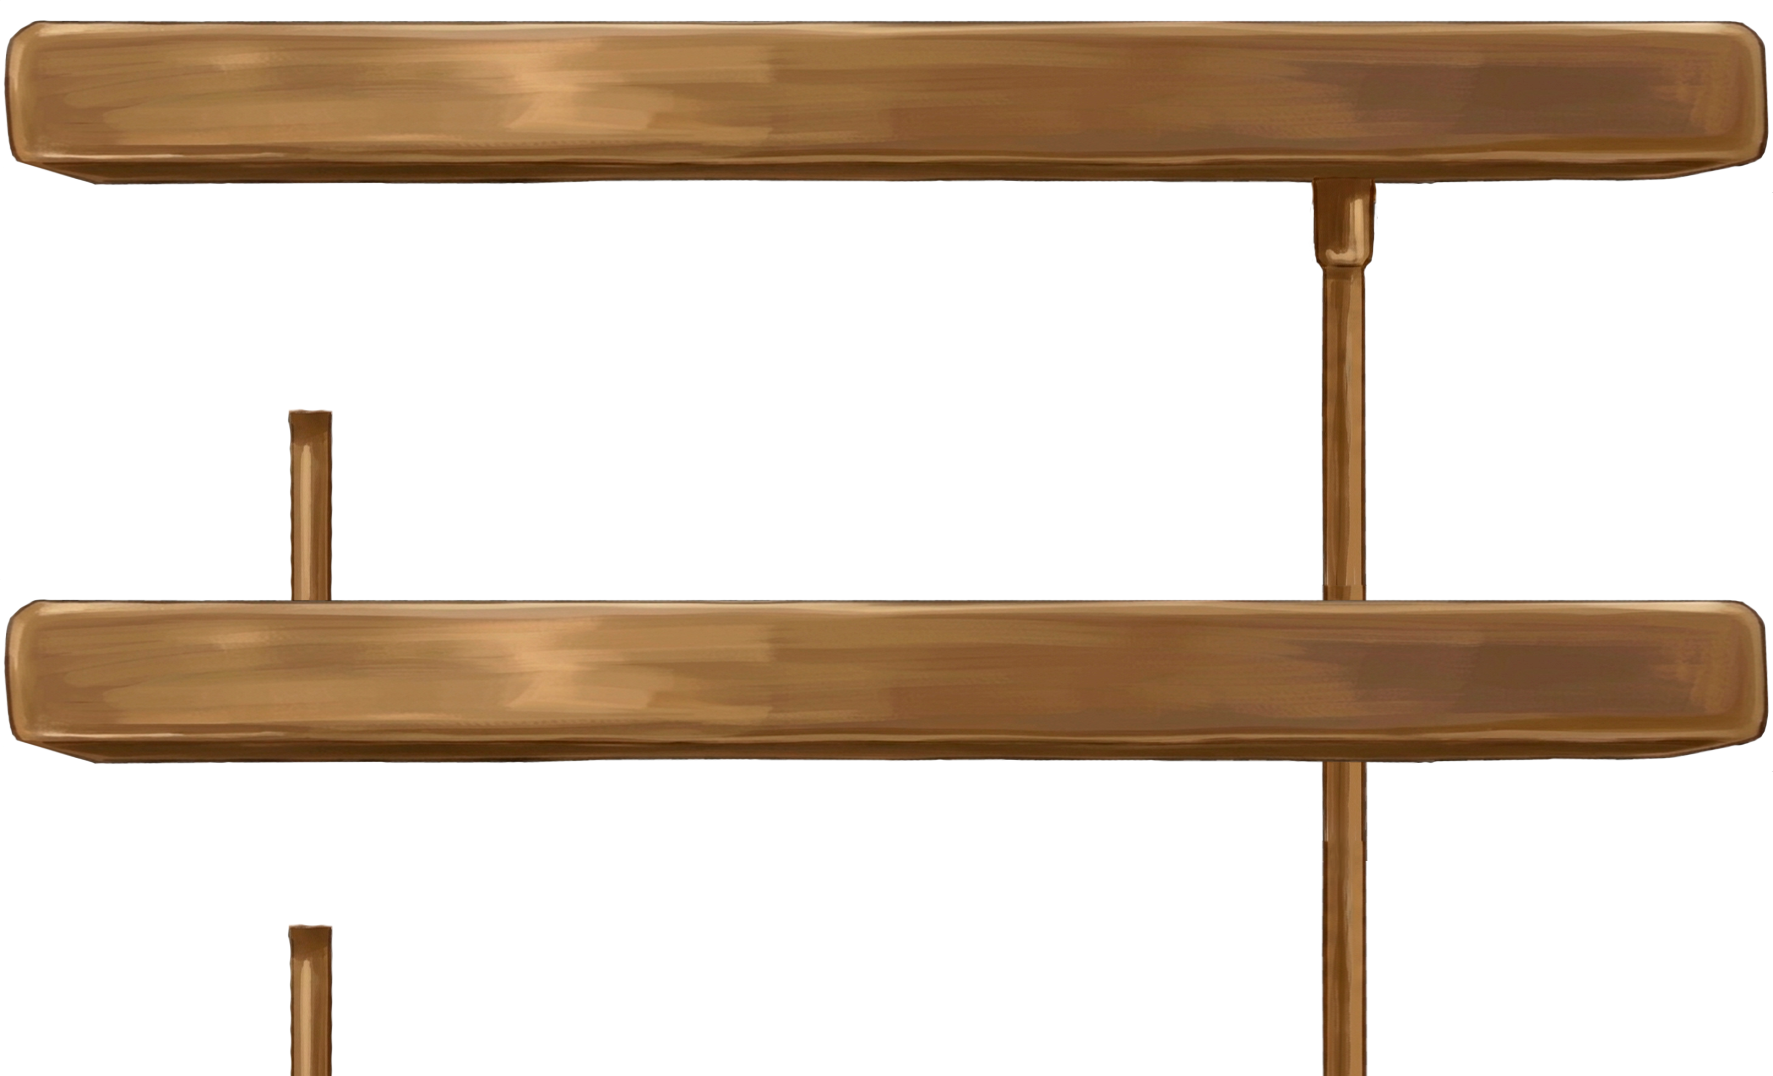
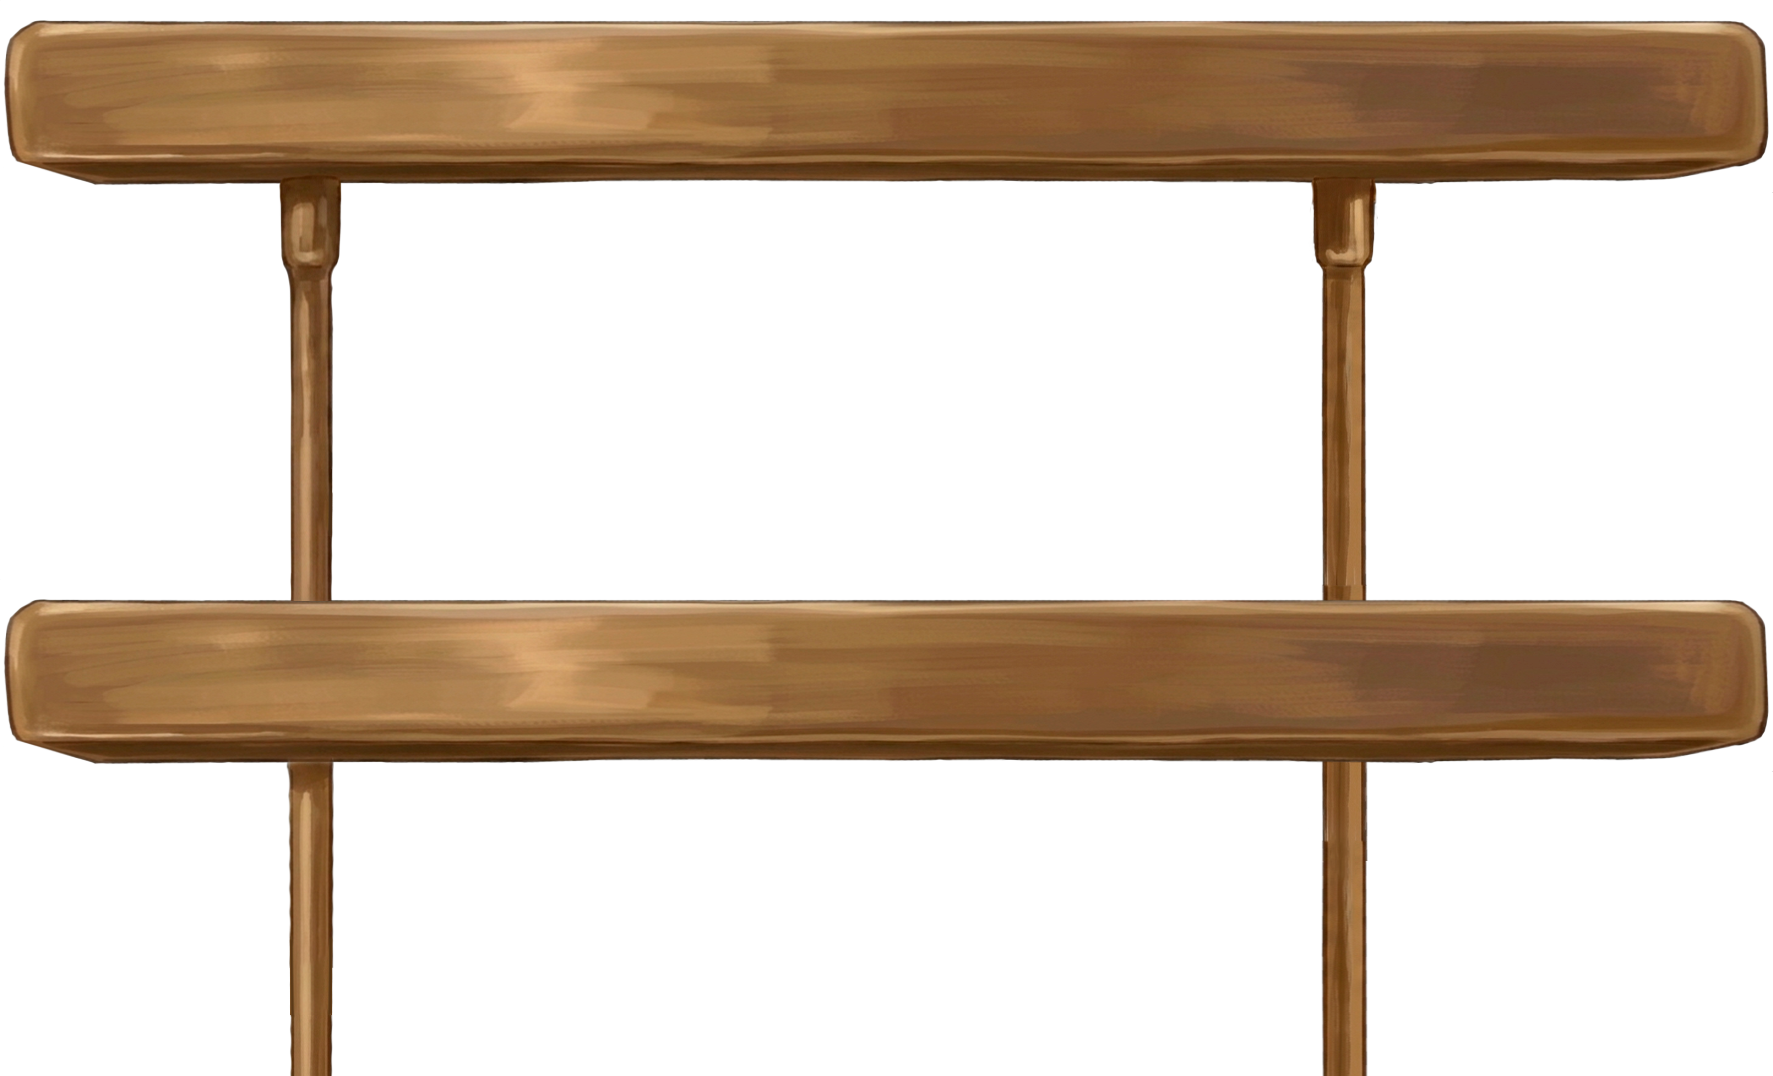
alteracoes

Changed region(s): [[0.1551, 0.1533, 0.2171, 0.4294], [0.1551, 0.7054, 0.1861, 0.8894]]

diff --git a/js/galeria.js b/js/galeria.js
@@ -358,74 +358,86 @@ function iniciarGaleria() {
     }
 
     // ── Imprimir carimbo ──
-    function imprimirCarimbo(c) {
+    async function imprimirCarimbo(c) {
+        // Converte imagem para base64 para evitar problemas de CORS
+        const resposta = await fetch(`images/combinacoes/${c.id}Card.png`);
+        const blob = await resposta.blob();
+        const base64 = await new Promise(res => {
+            const reader = new FileReader();
+            reader.onload = () => res(reader.result);
+            reader.readAsDataURL(blob);
+        });
+
         const janelaImpressao = window.open('', '_blank');
         janelaImpressao.document.write(`
-            <!DOCTYPE html>
-            <html>
-            <head>
-                <title>Carimbo — ${c.nome}</title>
-                <link href="https://fonts.googleapis.com/css2?family=Caveat:wght@700&family=Poppins:wght@400;500&display=swap" rel="stylesheet">
-                <style>
-                    * { margin: 0; padding: 0; box-sizing: border-box; }
-                    body {
-                        display: flex;
-                        flex-direction: column;
-                        align-items: center;
-                        justify-content: center;
-                        height: 100vh;
-                        background: white;
-                        font-family: 'Poppins', sans-serif;
-                    }
-                    .carimbo-wrapper {
-                        display: flex;
-                        flex-direction: column;
-                        align-items: center;
-                        gap: 24px;
-                    }
-                    .carimbo {
-                        width: 280px;
-                        height: 280px;
-                        border: 2px dashed #999;
-                        border-radius: 50%;
-                        object-fit: contain;
-                        filter: grayscale(1) contrast(2) invert(1);
-                    }
-                    .instrucoes {
-                        display: flex;
-                        flex-direction: column;
-                        gap: 6px;
-                        max-width: 320px;
-                    }
-                    .instrucoes p {
-                        font-size: 13px;
-                        color: #444;
-                        line-height: 1.5;
-                    }
-                    .instrucoes .titulo {
-                        font-family: 'Caveat', cursive; font-size: 22px; font-weight: 700;
-                        color: #222;
-                        margin-bottom: 2px;
-                    }
-                </style>
-            </head>
-            <body>
-                <div class="carimbo-wrapper">
-                    <img class="carimbo" src="${window.location.origin}/images/combinacoes/${c.id}Card.png" alt="${c.nome}">
-                    <div class="instrucoes">
-                        <p class="titulo">Como fazer o teu carimbo:</p>
-                        <p>1. Imprime e recorta a forma pelo tracejado</p>
-                        <p>2. Contorna as formas em papel EVA e recorta</p>
-                        <p>3. Cola as formas num pedaço de cartão como base com uma pega</p>
-                        <p>4. Mergulha em tinta e pressiona sobre papel</p>
-                    </div>
+        <!DOCTYPE html>
+        <html>
+        <head>
+            <title>Carimbo — ${c.nome}</title>
+            <style>
+                * { margin: 0; padding: 0; box-sizing: border-box; }
+                body {
+                    display: flex;
+                    flex-direction: column;
+                    align-items: center;
+                    justify-content: center;
+                    min-height: 100vh;
+                    background: white;
+                    padding: 40px;
+                }
+                .carimbo-wrapper {
+                    display: flex;
+                    flex-direction: column;
+                    align-items: center;
+                    gap: 24px;
+                }
+                .carimbo {
+                    width: 300px;
+                    height: 300px;
+                    border: 2px dashed #999;
+                    border-radius: 50%;
+                    object-fit: contain;
+                    filter: grayscale(1) contrast(2) invert(1);
+                }
+                .titulo-carimbo {
+                    font-family: 'Caveat', cursive;
+                    font-size: 22px;
+                    color: #3C282A;
+                }
+                .instrucoes {
+                    font-family: sans-serif;
+                    font-size: 14px;
+                    color: #444;
+                    line-height: 2;
+                    text-align: left;
+                }
+                .instrucoes h3 {
+                    font-family: 'Caveat', cursive;
+                    font-size: 20px;
+                    margin-bottom: 8px;
+                    color: #3C282A;
+                }
+                @media print {
+                    .instrucoes { display: none; }
+                }
+            </style>
+        </head>
+        <body>
+            <div class="carimbo-wrapper">
+                <img class="carimbo" src="${base64}" alt="${c.nome}">
+                <p class="titulo-carimbo">${c.nome}</p>
+                <div class="instrucoes">
+                    <h3>Como fazer o teu carimbo:</h3>
+                    1. Imprime e recorta a forma pelo tracejado<br>
+                    2. Contorna as formas em papel EVA e recorta<br>
+                    3. Cola as formas num pedaço de cartão como base com uma pega<br>
+                    4. Mergulha em tinta e pressiona sobre papel
                 </div>
-                <script>
-                    window.onload = () => { window.print(); }
-                <\/script>
-            </body>
-            </html>
-        `);
+            </div>
+            <script>window.onload = () => window.print();<\/script>
+        </body>
+        </html>
+    `);
         janelaImpressao.document.close();
     }
 }
